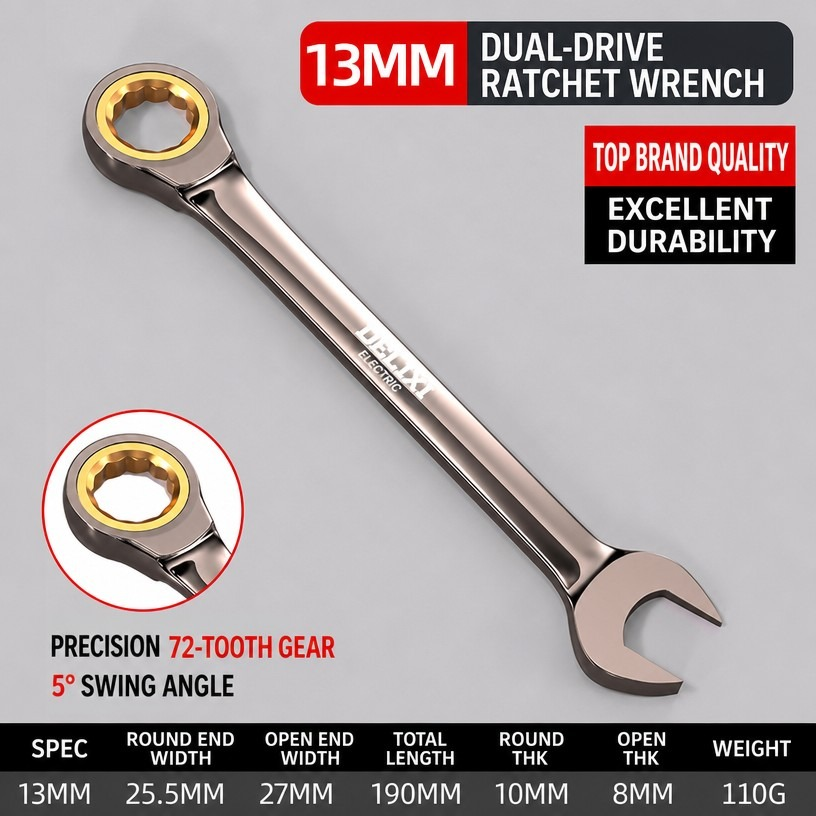
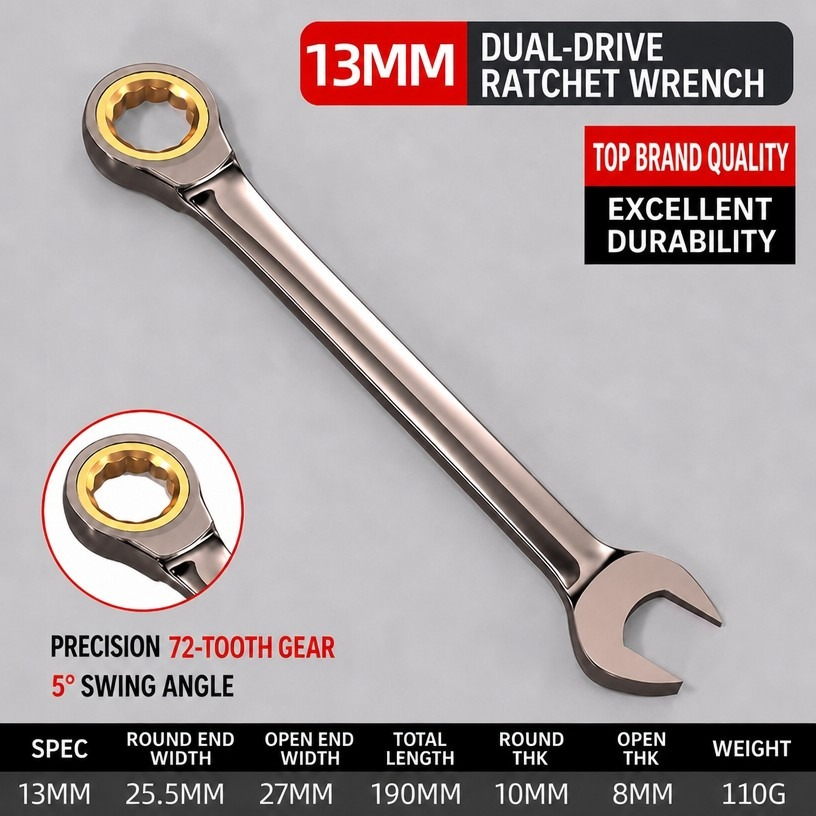
Remove third-party brands from 8 product images

diff --git a/download_debranded.py b/download_debranded.py
@@ -1,0 +1,39 @@
+# -*- coding: utf-8 -*-
+"""Download AI-edited (brand-removed) product images and replace local files."""
+import os, urllib.request
+from PIL import Image
+from io import BytesIO
+
+BASE = os.path.dirname(os.path.abspath(__file__))
+IMG_DIR = os.path.join(BASE, "images")
+
+URLS = {
+    "brushless-cordless-drill": "https://sc02.alicdn.com/kf/A886cbce26c574174a1172776d9bdc0d7w.png",
+    "black-aluminum-cabinet-handle": "https://sc02.alicdn.com/kf/Ae1c773e2b4fe428eadf167943bd85248J.png",
+    "72-tooth-ratchet-wrench-set": "https://sc02.alicdn.com/kf/A60caae9bb7f54c4f99fcb524a1582f04s.png",
+    "industrial-lineman-pliers": "https://sc02.alicdn.com/kf/A8b2764ff999940109f009f9c66afb638I.png",
+    "brushless-cordless-angle-grinder": "https://sc02.alicdn.com/kf/Afb4526074445425b9bc568a6c549f679c.png",
+    "brushless-impact-wrench": "https://sc02.alicdn.com/kf/A4393df79236b417dada7eec856c9bc334.png",
+    "air-impact-wrench": "https://sc02.alicdn.com/kf/A53b24a6ec8f14e229db322be0055fd1fq.png",
+    "pneumatic-air-nailer": "https://sc02.alicdn.com/kf/Ace38a5124c4b4b14868367665f45862dg.png",
+}
+
+UA = {"User-Agent": "Mozilla/5.0 (Windows NT 10.0; Win64; x64) AppleWebKit/537.36 Chrome/126.0 Safari/537.36"}
+
+for slug, url in URLS.items():
+    try:
+        req = urllib.request.Request(url, headers=UA)
+        data = urllib.request.urlopen(req, timeout=90).read()
+        img = Image.open(BytesIO(data))
+        if img.mode in ("RGBA", "P", "LA"):
+            img = img.convert("RGBA")
+            bg = Image.new("RGB", img.size, (255, 255, 255))
+            bg.paste(img, mask=img.split()[-1])
+            img = bg
+        else:
+            img = img.convert("RGB")
+        dest = os.path.join(IMG_DIR, slug + ".jpg")
+        img.save(dest, "JPEG", quality=92)
+        print(f"{slug}: {len(data)} bytes -> {os.path.getsize(dest)} bytes jpg {img.size}")
+    except Exception as e:
+        print(f"{slug}: FAILED {e}")
